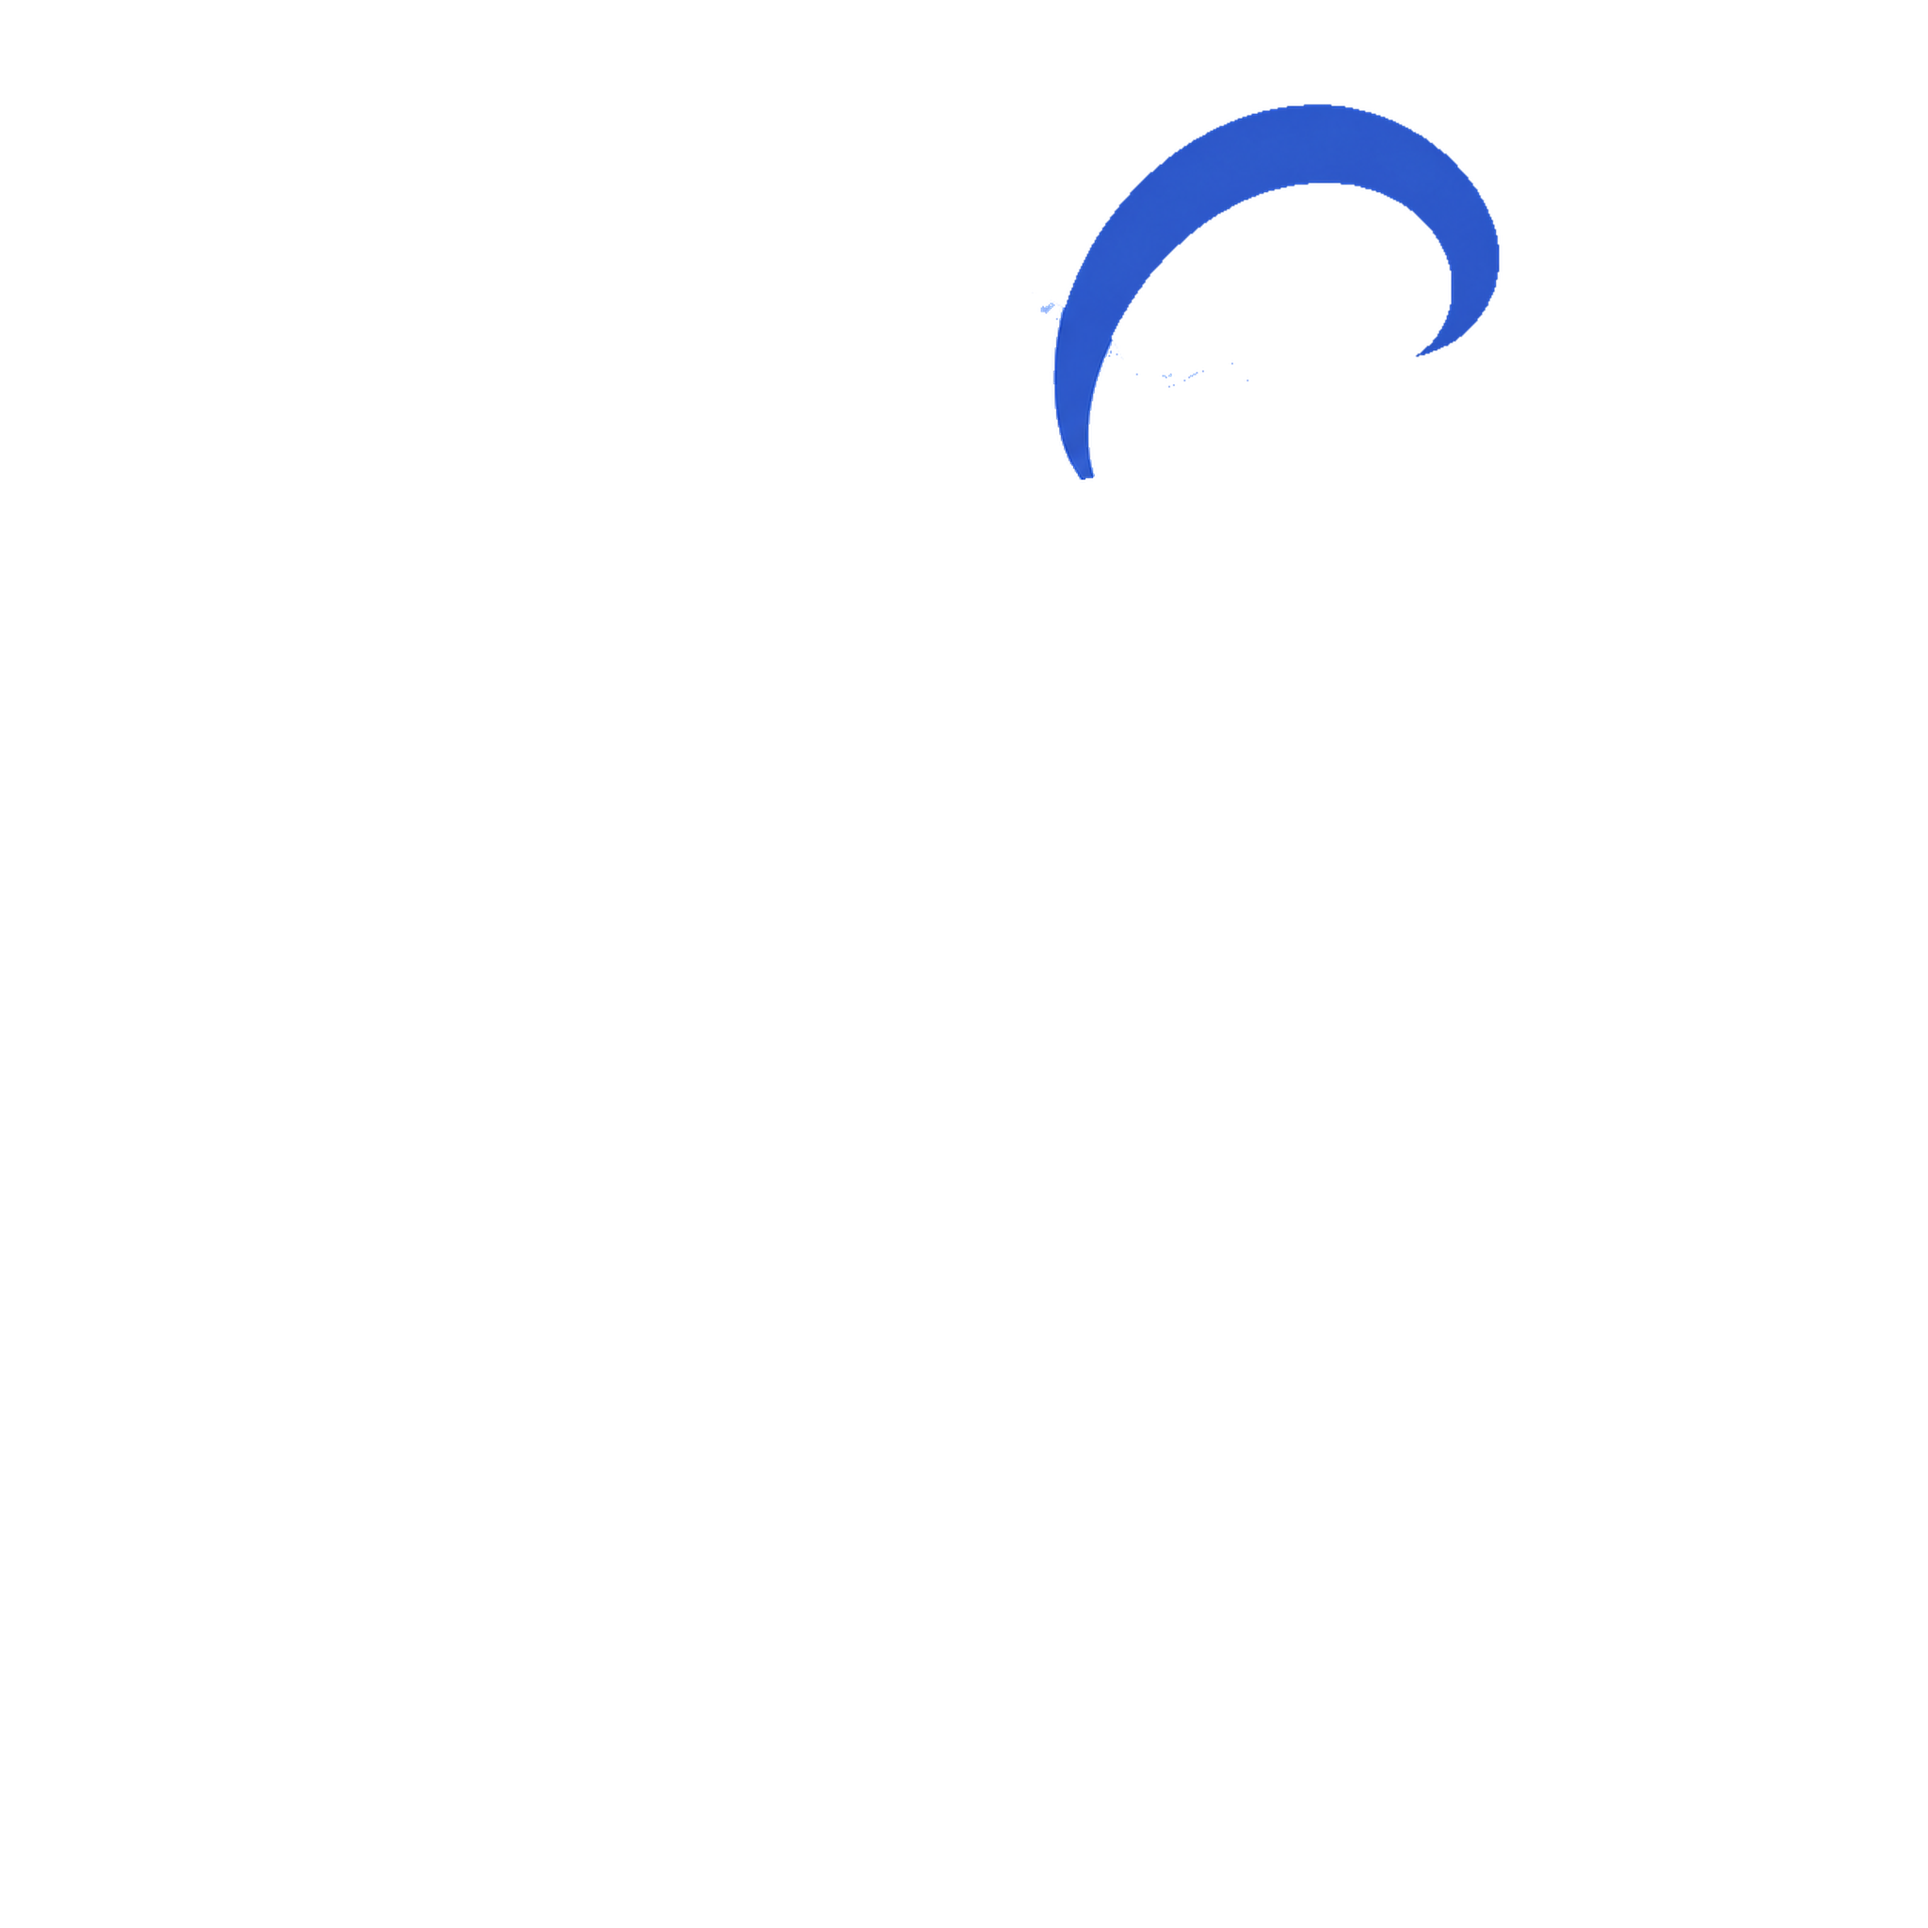
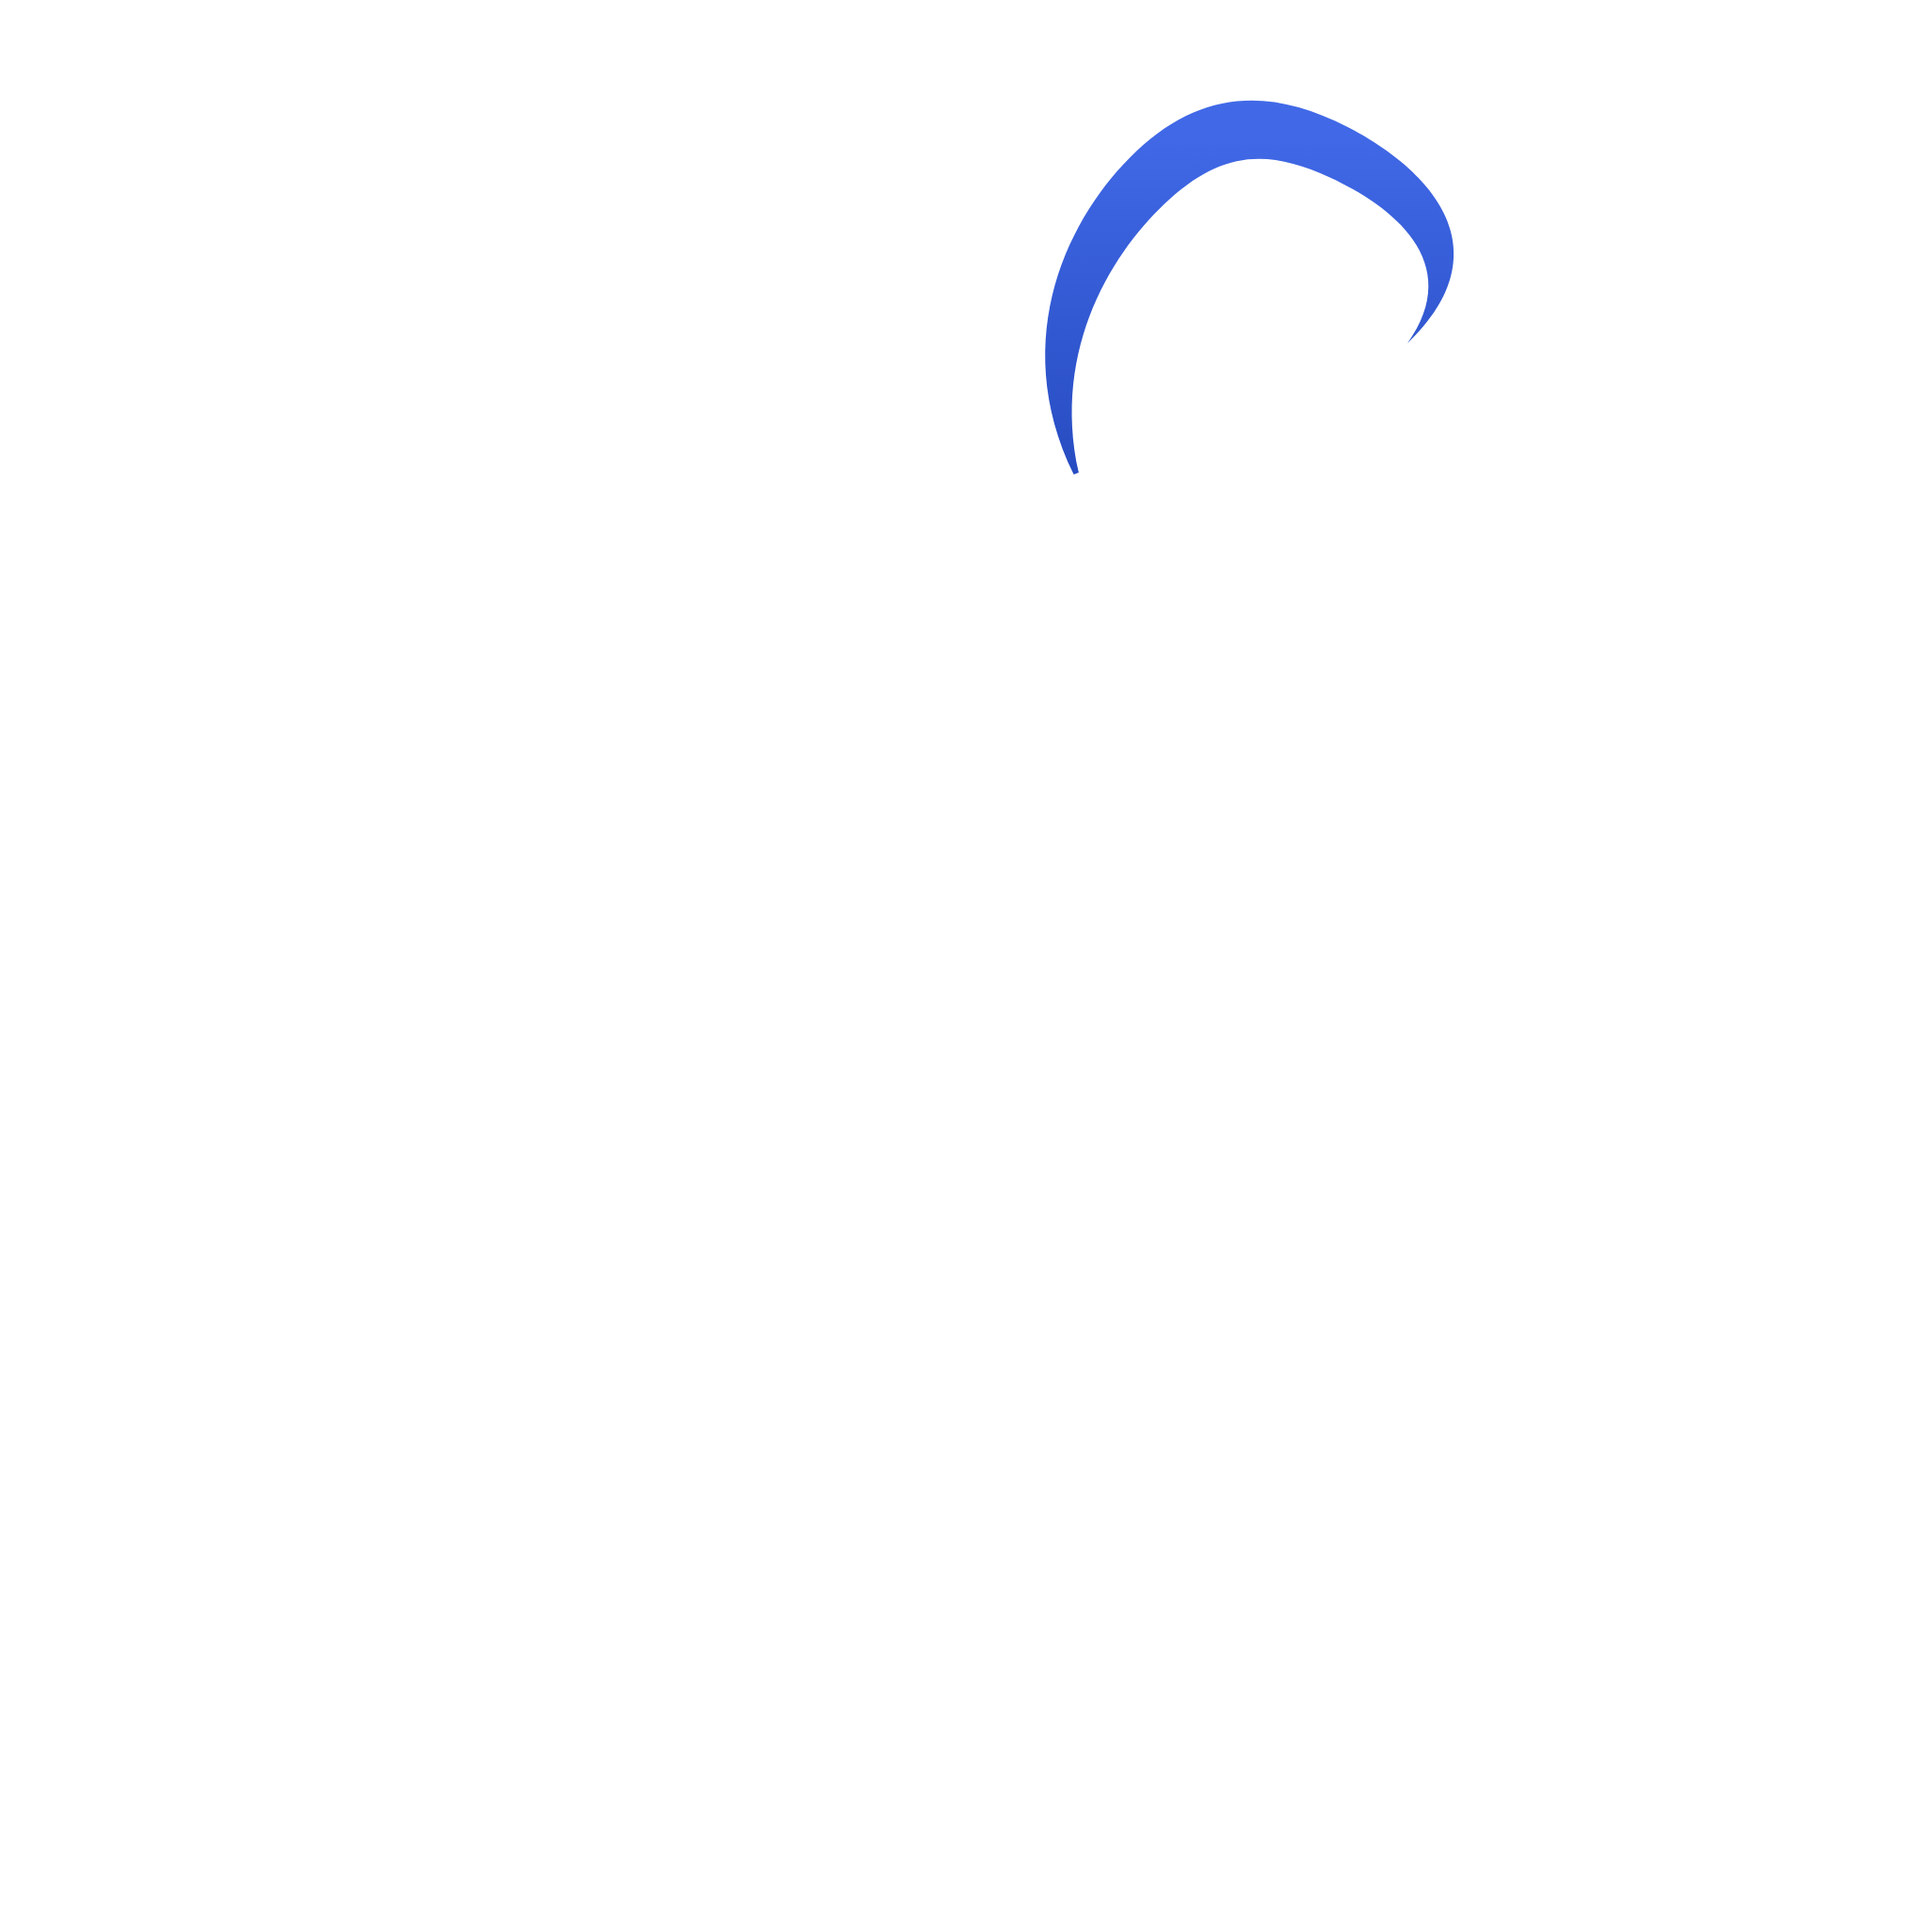
Draw ahoge with smooth low-order spline boundaries

Changed region(s): [[0.5312, 0.0312, 0.7812, 0.25]]

diff --git a/docs/superpowers/plans/2026-11-05-vector-ahoge.md b/docs/superpowers/plans/2026-11-05-vector-ahoge.md
@@ -1,0 +1,26 @@
+# Vector Ahoge Implementation Plan
+
+**Goal:** Replace the thin, distorted ahoge with a code-drawn, tapered curl and bounded elastic drag.
+
+**Architecture:** Keep source-art coordinates and the existing WebGL/head projection. A focused ahoge module supplies a cubic centerline, width profile, SVG, triangle geometry and drag solve. The renderer samples procedural color; picking interpolates the original material coordinates directly.
+
+**Tech Stack:** JavaScript modules, SVG, Canvas, WebGL, Electron.
+
+**Spec:** docs/superpowers/specs/2026-11-05-vector-ahoge-design.md
+
+## Global Constraints
+
+- Preserve the root at (1143.222,503.018) in the 2048 source grid.
+- Retain the existing 18% maximum extension and transparent window gutters.
+- Keep process files, exports and installation on D:.
+
+## Steps
+
+- [x] Replace `src/ahoge.mjs` with smooth vector geometry and bounded, curl-preserving displacement. Verify root, grip, width, retained hook and release.
+- [x] Update `src/renderer.mjs` to draw procedural geometry and use source-vertex interpolation for picking. Export matching SVG/PNG and update `assets/rig.json`.
+- [x] Inspect native screenshots of all drag directions, saturation, return-to-rest and sleep. Run existing desktop interaction regressions and logical tests.
+- [x] Build the next patch version, verify its packaged files and update the installed app with preferences preserved.
+
+Final drawing contract: both sides use the same clamped cubic B-spline basis (six controls, two interior knots). Every deformed frame is fitted to that same basis with a fixed root/tangent and shared tip. Verify C2 continuity at the knots in both rest and drag poses, material pinning, and positive triangle orientation.
+
+Completed: 107 logical tests, native 150/240/460 docked/free interaction regression and 288 extreme pull poses passed. Inspected the enlarged smooth SVG contour, upward pull and recovered curl; verified SVG/PNG/package consistency and SHA-256 checks. Installed v0.6.8 with saved preferences retained.

diff --git a/DEVELOPMENT.md b/DEVELOPMENT.md
@@ -25,7 +25,7 @@ tools/docs/     README 素材生成（抓帧 + 合成，见该目录 README）
 tools/installer/ 单文件安装包生成（C# 自解压 + 打包脚本）
 tools/build-release.ps1  一键构建全部 Windows 发布产物
 docs/           README 图片 + 发版说明
-test/           node --test 单测（当前 97 项）+ Electron 交互回归
+test/           node --test 单测（当前 107 项）+ Electron 交互回归
 ```
 
 ## 2. 环境要求
@@ -54,7 +54,7 @@ npm test           # node --test，逻辑测试
 - 待机时每隔随机 60–120 秒触发一次较轻的单耳扑闪；关闭待机或开启减少动态效果时停用，手动交互会推迟下一次。
 - 情绪耳姿态由 `Motion` 的 `earMood` 驱动：萎靡随现有 droop 信号缓慢下垂，happy 时小幅立高再回到常态。渲染角度基线为下垂约 38° / 兴奋上抬最多 8°，耳根固定，点击与待机扑闪叠加并限幅。
 - 桌宠与控制台预览共用 `src/touch.mjs`；命中检测反算实际变形网格并检查像素透明度，避开呆毛环内空白和被遮住的耳朵。
-- `src/ahoge.mjs` 负责发丝中心线、材质抓点、长度约束与释放回弹；渲染时反算头部投影，避免转头时抓点滑离鼠标。
+- `src/ahoge.mjs` 定义六控制点三次 B 样条和曲率连续的两侧轮廓、蓝色渐变、材质抓点、长度约束与释放回弹。WebGL 直接绘制同源的向量网格，抓点反算头部投影，超过弹性范围后产生阻力。`npm run export:ahoge` 导出匹配的 `assets/vector/ahoge.svg`、2048×2048 透明 `assets/layers/ahoge.png` 和 rig 边界。
 - 上述交互从 v0.5.0 起包含在安装包与便携包中；源码运行可使用仓库中的启动脚本或 `npm start`。
 
 ```powershell

diff --git a/docs/superpowers/specs/2026-11-05-vector-ahoge-design.md b/docs/superpowers/specs/2026-11-05-vector-ahoge-design.md
@@ -1,0 +1,9 @@
+# Vector ahoge redesign
+
+The user explicitly requested a code/SVG redraw after the PNG-based hair still became a thin rod. Replace that component with a smooth tapered vector hook, preserving its existing source-grid root and blue palette. Use the same mathematical silhouette for the editable SVG, PNG export, WebGL geometry and picking.
+
+The root stays fixed. Drag displacement is distributed with a smooth zero-slope envelope, retains the free-tip hook, and meets resistance before the strand exceeds 18% extension or develops a sharp fold. Thickness remains stable instead of squeezing into a filament. Release recovers the original curl with the existing damped bounce. Existing sleep/wake, gaze, dock position and transparent gutters remain functional.
+
+Verify actual resting, upward/sideways/downward pulls, extreme limits, release and sleep poses. A numerical pin or bounding-box check alone is insufficient; inspect the rendered contour. Build a new version and update the installed app while preserving preferences.
+
+Refinement requested after preview: draw both outer boundaries as clamped cubic B-splines with six controls and two internal knots. Each side must be C2 continuous. Export each side as three exact cubic Bezier segments; remove the multi-knot width interpolation that created undulations. Smooth the deformed material frame with cubic interpolation. Inspect enlarged boundary views as well as small desktop views.

diff --git a/docs/release-notes.md b/docs/release-notes.md
@@ -1,3 +1,13 @@
+# v0.6.8 — 用代码重新绘制呆毛
+
+- 使用六控制点的三次 B 样条、渐变蓝色与曲率连续的两侧轮廓重新绘制呆毛，附可编辑 SVG 和对应的透明 PNG。
+- 拉动时固定发根、保留发梢弯钩和厚度，超过伸长或弯曲限制后产生阻力，松手后回弹恢复卷曲。
+- 动画渲染与点击命中使用同一份向量形状；待机、睡眠、唤醒继续共用。
+
+验证：107 项逻辑测试；真实 Electron 三种尺寸、贴边/悬浮交互与 288 组极限拉拽组合；向上拉动、松手恢复和睡眠画面检查。
+
+---
+
 # v0.6.7 — 睡眠细节、揉眼与呆毛绑定
 
 - 睡眠时每隔约 2.5–6 分钟随机抖动一只耳朵；呼吸周期 20–28 秒、幅度极小，呆毛低频轻摆，偶尔缓缓换向。
